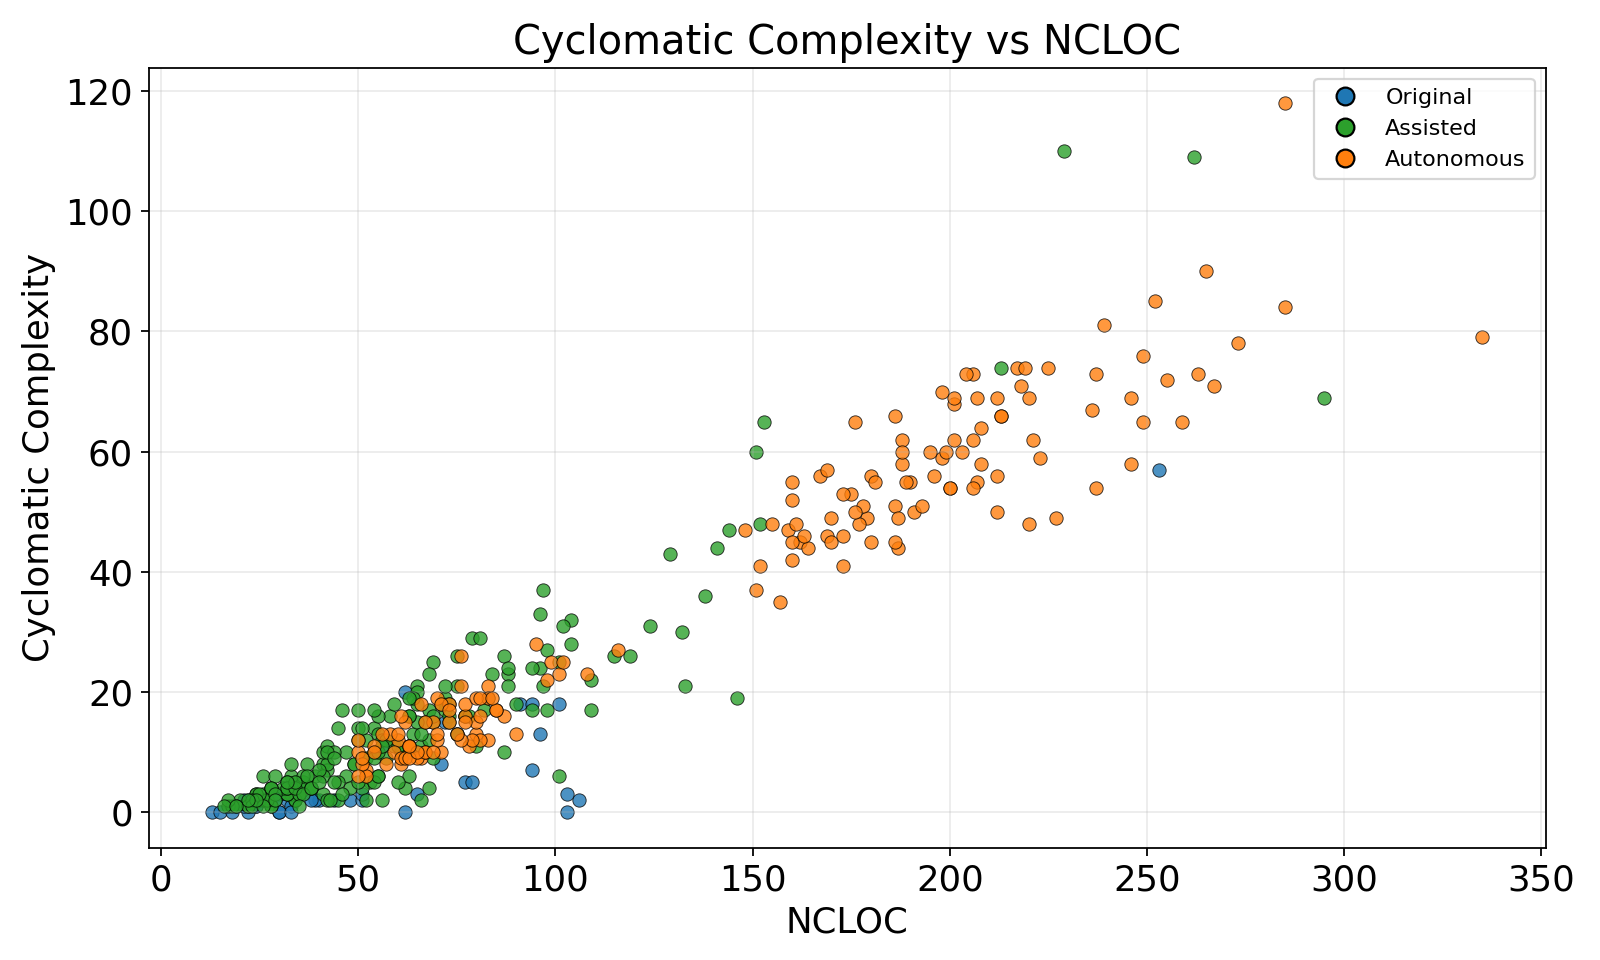
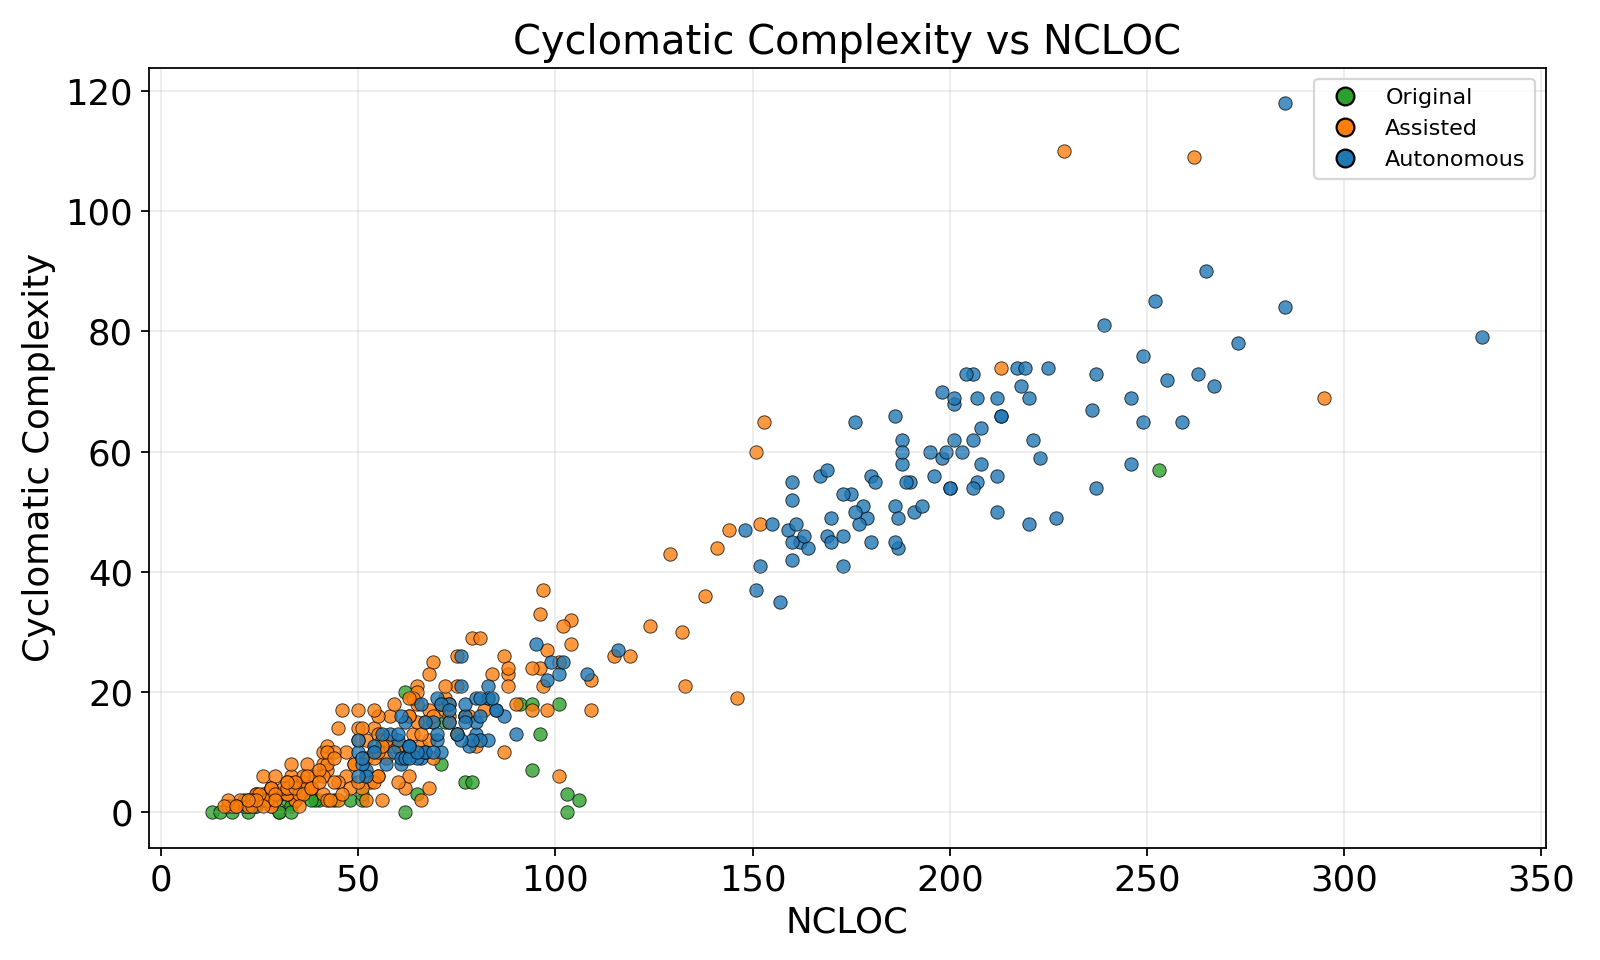
change scatter plot color

diff --git a/scripts/analyse_cyclomatic_code_complexity.py b/scripts/analyse_cyclomatic_code_complexity.py
@@ -1050,7 +1050,7 @@ def save_scatter(records: Sequence[ComplexityRecord], output_dir: Path, plt, Lin
     if not points:
         return None
 
-    colors = {"original": "#1f77b4", "assisted": "#2ca02c", "autonomous": "#ff7f0e"}
+    colors = {"original": "#2ca02c", "assisted": "#ff7f0e", "autonomous": "#1f77b4"}
     fig, ax = plt.subplots(figsize=(10, 6))
     for mode in ALL_MODES:
         subset = [r for r in points if r.mode == mode]
